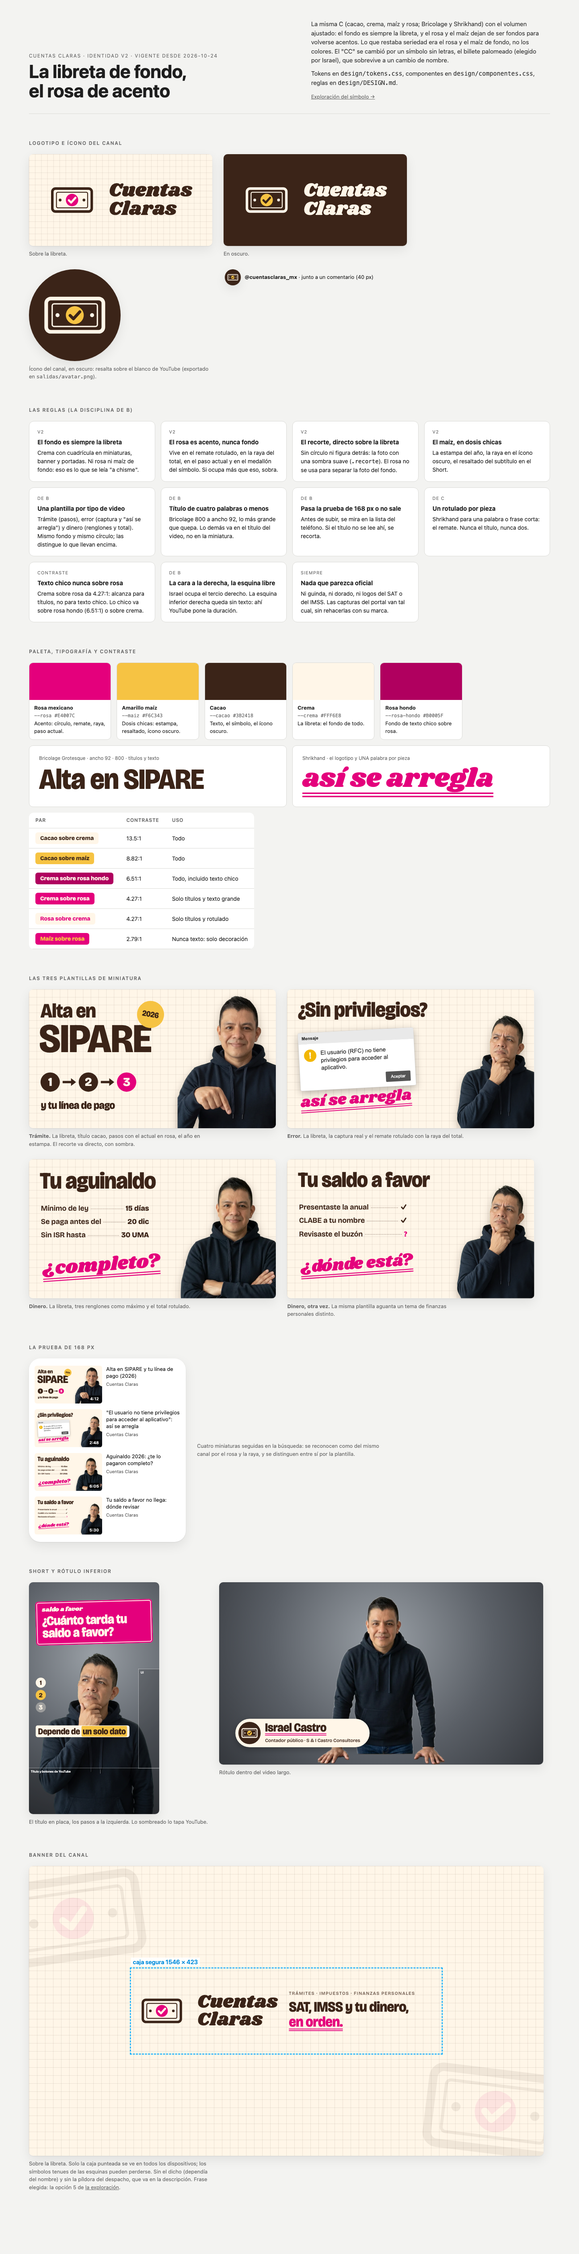
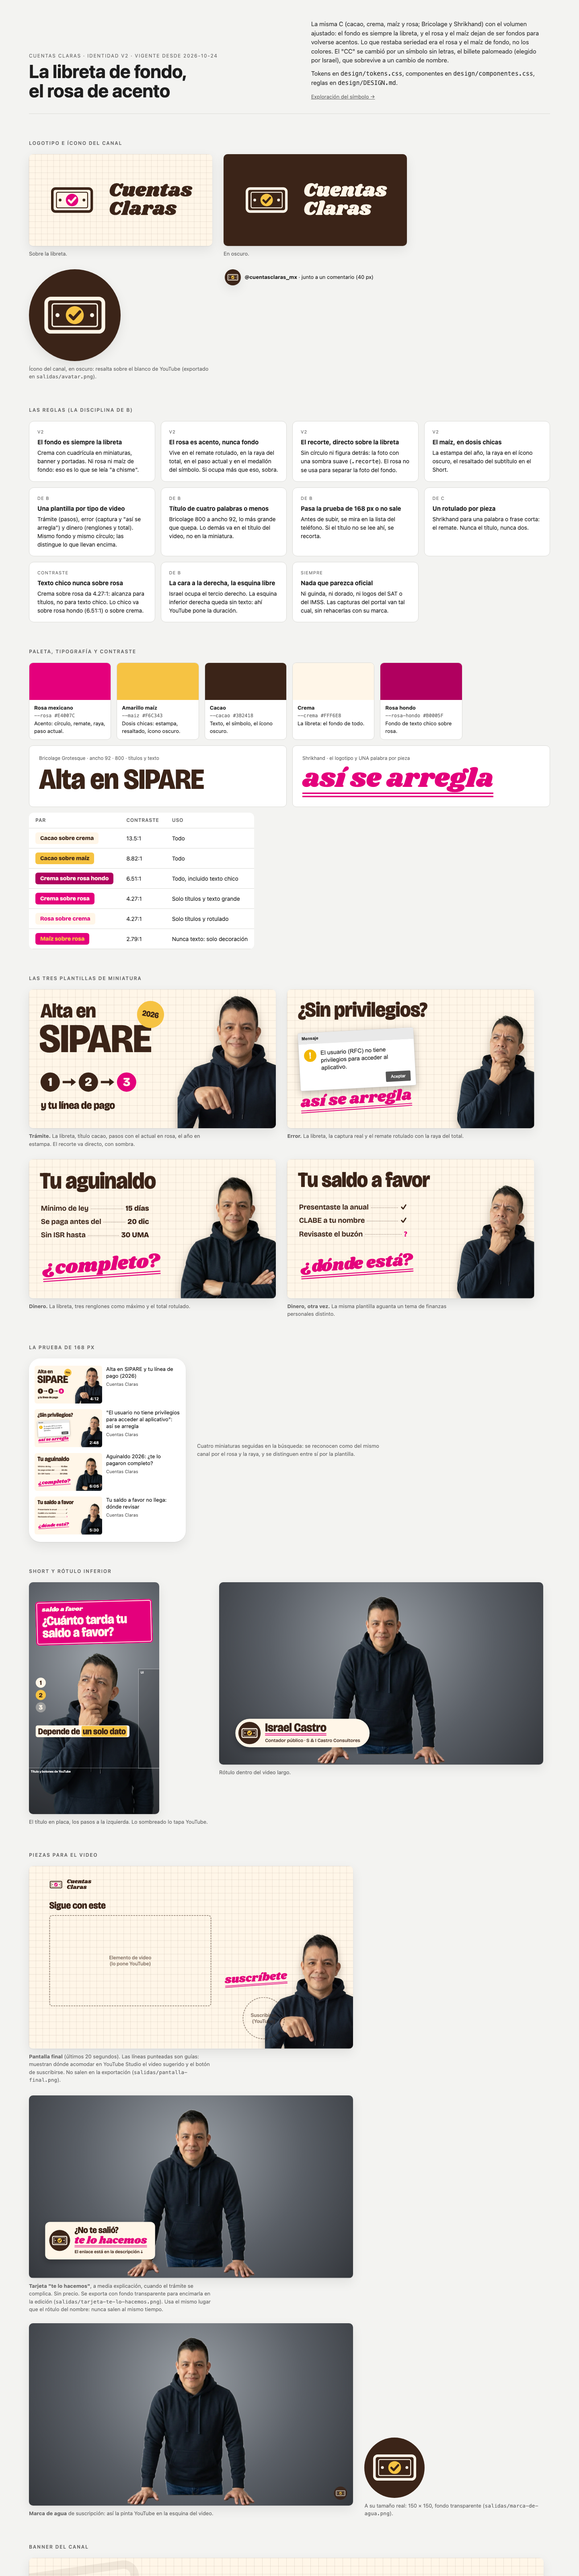
Piezas de video: pantalla final, tarjeta "te lo hacemos" y marca de agua

diff --git a/design/tableros/identidad-v2.html b/design/tableros/identidad-v2.html
@@ -162,6 +162,57 @@
   </div>
 </template>
 
+
+<!-- Piezas de video: pantalla final, tarjeta de "te lo hacemos" y marca de agua. -->
+<template id="t-final">
+  <div class="libreta" style="position:absolute;inset:0">
+    <span class="abs lockup" style="font-size:80px;left:120px;top:70px"><svg class="simb" viewBox="0 0 200 200"><use href="#simbolo"/></svg><span class="rot">Cuentas<br>Claras</span></span>
+    <div class="abs disp" style="left:120px;top:206px;font-size:58px;color:var(--cacao)">Sigue con este</div>
+    <div class="abs guia" style="left:120px;top:290px;width:960px;height:540px;border-radius:18px;border:5px dashed rgba(59,36,24,.45);display:grid;place-items:center;font:600 30px/1.2 system-ui;color:rgba(59,36,24,.6);text-align:center">Elemento de video<br>(lo pone YouTube)</div>
+    <img class="abs recorte" src="../assets/israel-senala-abajo.webp" alt="" style="height:860px;right:-120px;bottom:-180px">
+    <div class="abs rot total" style="left:1160px;top:630px;font-size:66px;color:var(--rosa);transform:rotate(-4deg)">suscríbete</div>
+    <div class="abs guia" style="left:1265px;top:775px;width:250px;height:250px;border-radius:50%;border:5px dashed rgba(59,36,24,.45);display:grid;place-items:center;font:600 30px/1.2 system-ui;color:rgba(59,36,24,.6);text-align:center">Suscribirse<br>(YouTube)</div>
+  </div>
+</template>
+
+<template id="t-tarjeta">
+  <div style="position:absolute;inset:0">
+    <div class="abs" style="left:96px;bottom:110px;display:flex;align-items:center;gap:26px;background:var(--crema);border-radius:28px;padding:24px 48px 26px 24px;box-shadow:0 14px 36px rgba(0,0,0,.28)">
+      <span class="oscuro" style="width:124px;height:124px;border-radius:50%;background:#3B2418;display:grid;place-items:center;flex:none"><svg viewBox="0 0 200 200" style="width:98px;height:98px"><use href="#simbolo"/></svg></span>
+      <div>
+        <div class="disp" style="font-size:54px;color:var(--cacao)">¿No te salió?</div>
+        <div class="rot total" style="font-size:60px;color:var(--rosa);display:inline-block;margin-top:4px">te lo hacemos</div>
+        <div style="font-family:var(--font-display);font-weight:600;font-size:26px;color:var(--cacao);margin-top:6px">El enlace está en la descripción ↓</div>
+      </div>
+    </div>
+  </div>
+</template>
+
+<template id="t-tarjeta-demo">
+  <div class="video" style="position:absolute;inset:0">
+    <img src="../assets/israel-apoyado-hoodie.webp" alt="" style="height:1000px">
+    <div class="abs" style="left:96px;bottom:110px;display:flex;align-items:center;gap:26px;background:var(--crema);border-radius:28px;padding:24px 48px 26px 24px;box-shadow:0 14px 36px rgba(0,0,0,.28)">
+      <span class="oscuro" style="width:124px;height:124px;border-radius:50%;background:#3B2418;display:grid;place-items:center;flex:none"><svg viewBox="0 0 200 200" style="width:98px;height:98px"><use href="#simbolo"/></svg></span>
+      <div>
+        <div class="disp" style="font-size:54px;color:var(--cacao)">¿No te salió?</div>
+        <div class="rot total" style="font-size:60px;color:var(--rosa);display:inline-block;margin-top:4px">te lo hacemos</div>
+        <div style="font-family:var(--font-display);font-weight:600;font-size:26px;color:var(--cacao);margin-top:6px">El enlace está en la descripción ↓</div>
+      </div>
+    </div>
+  </div>
+</template>
+
+<template id="t-marca">
+  <div class="oscuro" style="position:absolute;inset:0;border-radius:50%;background:#3B2418;display:grid;place-items:center"><svg viewBox="0 0 200 200" style="width:78%;height:78%"><use href="#simbolo"/></svg></div>
+</template>
+
+<template id="t-marca-demo">
+  <div class="video" style="position:absolute;inset:0">
+    <img src="../assets/israel-apoyado-hoodie.webp" alt="" style="height:1000px">
+    <div class="abs" style="right:36px;bottom:36px;width:78px;height:78px;opacity:.85"><div class="oscuro" style="position:absolute;inset:0;border-radius:50%;background:#3B2418;display:grid;place-items:center"><svg viewBox="0 0 200 200" style="width:78%;height:78%"><use href="#simbolo"/></svg></div></div>
+  </div>
+</template>
+
 <!-- ============ TABLERO ============ -->
 
 <main class="tablero">
@@ -258,6 +309,18 @@
     <div class="fila">
       <div class="pieza"><div class="frame" style="--w:1080;--h:1920;--s:.3" data-tpl="t-short"></div><p class="nota">El título en placa, los pasos a la izquierda. Lo sombreado lo tapa YouTube.</p></div>
       <div class="pieza"><div class="frame" style="--w:1920;--h:1080;--s:.42" data-tpl="t-rotulo"></div><p class="nota">Rótulo dentro del video largo.</p></div>
+    </div>
+  </section>
+
+  <section>
+    <h2>Piezas para el video</h2>
+    <div class="fila">
+      <div class="pieza"><div class="frame" style="--w:1920;--h:1080;--s:.42" data-tpl="t-final"></div><p class="nota"><b>Pantalla final</b> (últimos 20 segundos). Las líneas punteadas son guías: muestran dónde acomodar en YouTube Studio el video sugerido y el botón de suscribirse. No salen en la exportación (<code>salidas/pantalla-final.png</code>).</p></div>
+      <div class="pieza"><div class="frame" style="--w:1920;--h:1080;--s:.42" data-tpl="t-tarjeta-demo"></div><p class="nota"><b>Tarjeta "te lo hacemos"</b>, a media explicación, cuando el trámite se complica. Sin precio. Se exporta con fondo transparente para encimarla en la edición (<code>salidas/tarjeta-te-lo-hacemos.png</code>). Usa el mismo lugar que el rótulo del nombre: nunca salen al mismo tiempo.</p></div>
+    </div>
+    <div class="fila" style="margin-top:24px;align-items:flex-end">
+      <div class="pieza"><div class="frame" style="--w:1920;--h:1080;--s:.42" data-tpl="t-marca-demo"></div><p class="nota"><b>Marca de agua</b> de suscripción: así la pinta YouTube en la esquina del video.</p></div>
+      <div class="pieza"><div class="frame redondo plano" style="--w:150;--h:150;--s:1" data-tpl="t-marca"></div><p class="nota">A su tamaño real: 150 × 150, fondo transparente (<code>salidas/marca-de-agua.png</code>).</p></div>
     </div>
   </section>
 

diff --git a/design/tableros/tablero.js b/design/tableros/tablero.js
@@ -33,9 +33,13 @@ if (location.hash === '#miniaturas') {
 // así se exportan el banner y el ícono para subirlos tal cual.
 if (location.hash.startsWith('#solo=')) {
   const id = location.hash.slice(6);
+  // El tamaño sale del marco que la muestra en el tablero; si la pieza no tiene marco (como una
+  // capa transparente que solo se exporta), se usa el tamaño de la ventana.
   const marco = document.querySelector(`.frame[data-tpl="${id}"]`);
+  const w = marco ? marco.style.getPropertyValue('--w') : innerWidth;
+  const h = marco ? marco.style.getPropertyValue('--h') : innerHeight;
   const pieza = document.createElement('div');
-  pieza.style.cssText = `position:relative;overflow:hidden;width:${marco.style.getPropertyValue('--w')}px;height:${marco.style.getPropertyValue('--h')}px`;
+  pieza.style.cssText = `position:relative;overflow:hidden;width:${w}px;height:${h}px`;
   pieza.append(document.getElementById(id).content.cloneNode(true));
   document.documentElement.classList.add('solo');
   document.body.style.margin = '0';

diff --git a/design/tableros/tablero.css b/design/tableros/tablero.css
@@ -118,3 +118,5 @@ pre.tokens {
 
 /* Exportación (#solo=): sin guías de caja segura ni zonas de YouTube. */
 .solo .seguro, .solo .ui-short { display: none; }
+.solo .guia { display: none !important; }
+html.solo, html.solo body { background: transparent !important; }

diff --git a/design/DESIGN.md b/design/DESIGN.md
@@ -93,6 +93,14 @@ rosa no se usa para separar la foto del fondo.
 - **Rótulo:** píldora crema con el símbolo en un círculo cacao, el nombre en Bricolage 800 con la
   raya en rosa y, debajo, "Contador público · S & I Castro Consultores".
 
+## Piezas para el video
+
+| Pieza | Archivo | Cómo se usa |
+|---|---|---|
+| **Pantalla final** | `salidas/pantalla-final.png` (1920 × 1080) | Los últimos 20 segundos de cada video. La libreta, el logotipo chico, "Sigue con este" y "suscríbete" rotulado; Israel señala hacia el botón. En YouTube Studio se acomodan encima el video sugerido (izquierda, el recuadro grande) y el botón de suscribirse (círculo junto a la mano). Las guías de dónde va cada uno se ven en el tablero y no salen en el PNG |
+| **Tarjeta "te lo hacemos"** | `salidas/tarjeta-te-lo-hacemos.png` (1920 × 1080, fondo transparente) | Se enciman en la edición cuando el trámite se complica: "¿No te salió? te lo hacemos · El enlace está en la descripción". **Sin precio.** Usa el lugar del rótulo del nombre (abajo a la izquierda); nunca salen al mismo tiempo. Las tarjetas de YouTube no sirven para esto: los enlaces externos ahí piden el Programa de Socios |
+| **Marca de agua** | `salidas/marca-de-agua.png` (150 × 150, transparente) | En Studio: Personalización, Imagen de marca, Marca de agua del video. El ícono del canal en chico: el círculo cacao con el billete en maíz |
+
 ## Banner
 
 La libreta, el logotipo y una frase en la caja segura (1546 × 423). **"Hazlo tú, o te lo hacemos"
